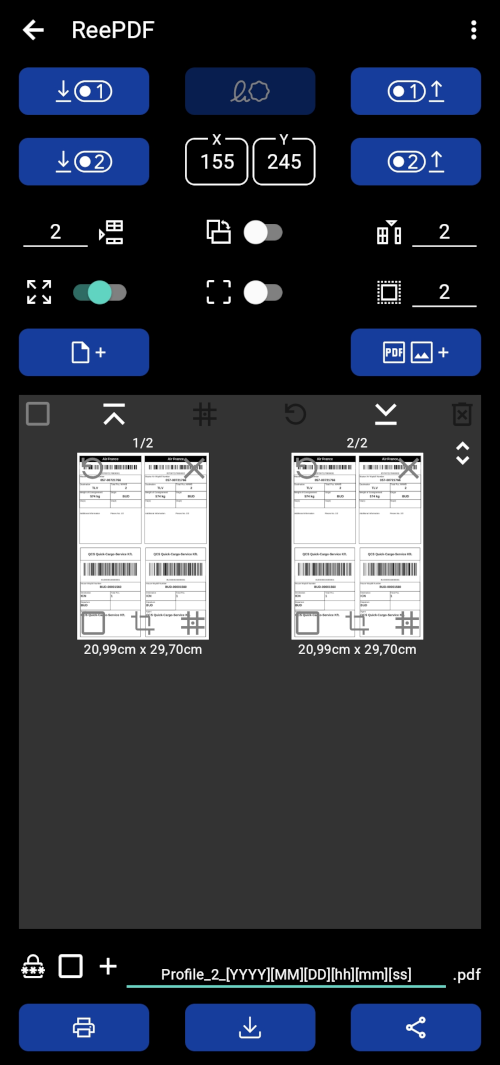
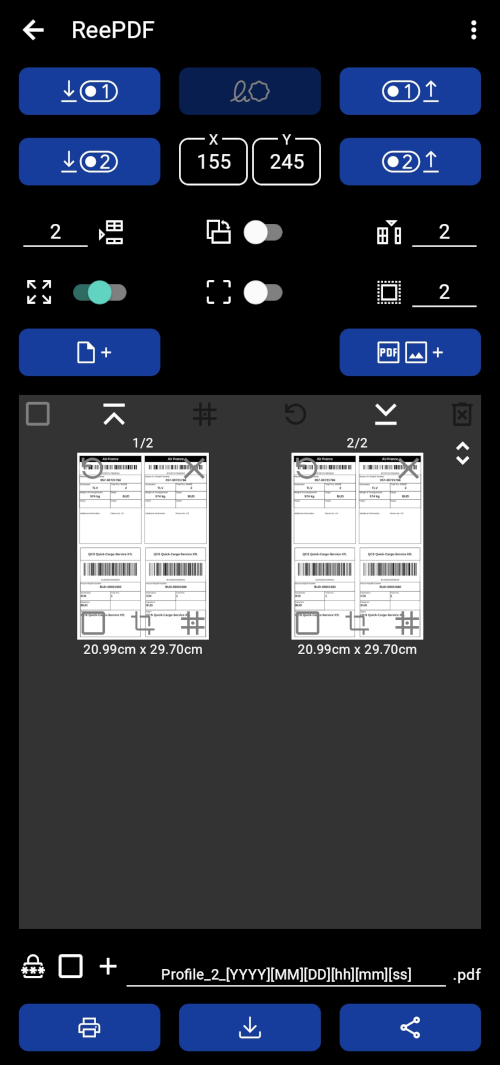
Update

diff --git a/app/src/main/java/hu/reelee81/reepdf/MainActivity.kt b/app/src/main/java/hu/reelee81/reepdf/MainActivity.kt
@@ -1274,6 +1274,24 @@ class MainActivity : AppCompatActivity() {
         }
     }
 
+    private fun reapplyMainButtonGapsFromResources() {
+        val gapPx = resources.getDimensionPixelSize(R.dimen.dp_9999_main_gap)
+
+        listOf(binding.addSignature, binding.xyPair, binding.addRowMiddle, binding.savePdfFile)
+            .forEach { updateHorizontalMargins(it, gapPx) }
+    }
+
+    private fun updateHorizontalMargins(view: View, marginPx: Int) {
+        val lp = view.layoutParams as? LayoutParams
+            ?: return
+
+        if (lp.leftMargin != marginPx || lp.rightMargin != marginPx) {
+            lp.leftMargin = marginPx
+            lp.rightMargin = marginPx
+            view.layoutParams = lp
+        }
+    }
+
     override fun onConfigurationChanged(newConfig: Configuration) {
         val prevConfig = lastConfigSnapshotForDiff?.let { Configuration(it) } ?: Configuration(newConfig)
         lastConfigSnapshotForDiff = Configuration(newConfig)
@@ -1283,6 +1301,8 @@ class MainActivity : AppCompatActivity() {
         recomputeTabletLikeFlag()
 
         reapplyPanelsMaxWidthFromResources()
+
+        reapplyMainButtonGapsFromResources()
 
         fastScroller?.refreshDisplayMetrics()
 
